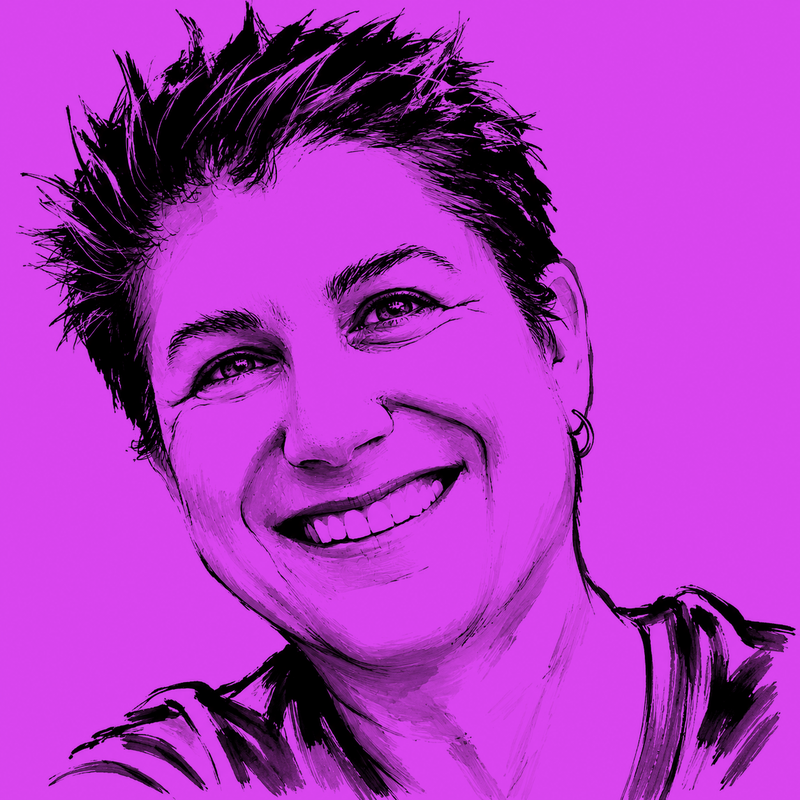
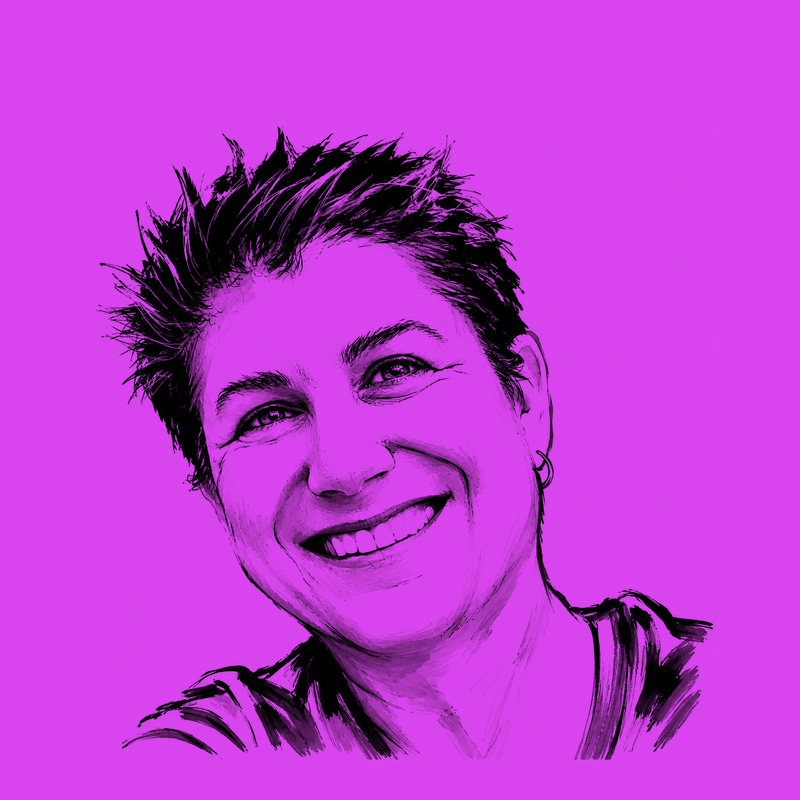
fix(team): reprocess Gal image with padding; swap Yaron/Ella
Gal card had two visible problems:
1. A faint magenta "frame" around her portrait because imageScale: 0.85
   made the img 15% smaller than the card box, exposing the card's
   gradient (which is from-[#d946ef] to-[#a21caf]) around a flat-magenta
   image (#d946ef everywhere). Slight tonal difference read as a frame.
2. Her spiky hair was being cropped at the top - the source image had
   her hair almost touching y=0, and object-cover on a 1.125:1 container
   crops ~24px off the top of a square image.

Fix: reprocess the source PNG to add 250px of magenta padding above her
head, 80px below, and 165px on each side (final canvas 1584x1584, then
resized to 800x800). With the padded image, object-cover crops padding
instead of hair. Removed imageScale: 0.85 - the image now fills the card
edge-to-edge, no visible frame.

Bonus: PNG size dropped from 749KB to 497KB because uniform magenta
padding compresses better than the previous tighter crop.

Also swap Yaron and Ella positions per Shilla's request. New order:
Nimrod, Gal, Ella, Yaron, Shilla (centered). Row 2 becomes F-M instead
of M-F, but the alternation between rows still reads as varied.

diff --git a/client/src/pages/Home.tsx b/client/src/pages/Home.tsx
@@ -48,16 +48,6 @@ export default function Home() {
       expertise: ["Visual Content", "Production", "Digital Accessibility"],
       gradient: "from-[#d946ef] to-[#a21caf]",
       image: "/images/gal-magenta.png",
-      imageScale: 0.85,
-    },
-    {
-      id: "yaron",
-      name: "Yaron Bahar",
-      role: "Sound Designer & Composer",
-      bio: "Master of sonic landscapes. Creates immersive soundscapes, original compositions, and professional audio design that elevates every project.",
-      expertise: ["Music Composition", "Sound Design", "Audio Engineering"],
-      gradient: "from-[#df6924] to-[#c5581b]",
-      image: "/images/yaron-orange.png"
     },
     {
       id: "ella",
@@ -67,6 +57,15 @@ export default function Home() {
       expertise: ["AI Animation", "VFX", "Video Editing"],
       gradient: "from-[#9d4edd] to-[#7b2cbf]",
       image: "https://files.manuscdn.com/user_upload_by_module/session_file/116189056/aLRmQRTkGuTOrrGk.png"
+    },
+    {
+      id: "yaron",
+      name: "Yaron Bahar",
+      role: "Sound Designer & Composer",
+      bio: "Master of sonic landscapes. Creates immersive soundscapes, original compositions, and professional audio design that elevates every project.",
+      expertise: ["Music Composition", "Sound Design", "Audio Engineering"],
+      gradient: "from-[#df6924] to-[#c5581b]",
+      image: "/images/yaron-orange.png"
     },
     {
       id: "shila",